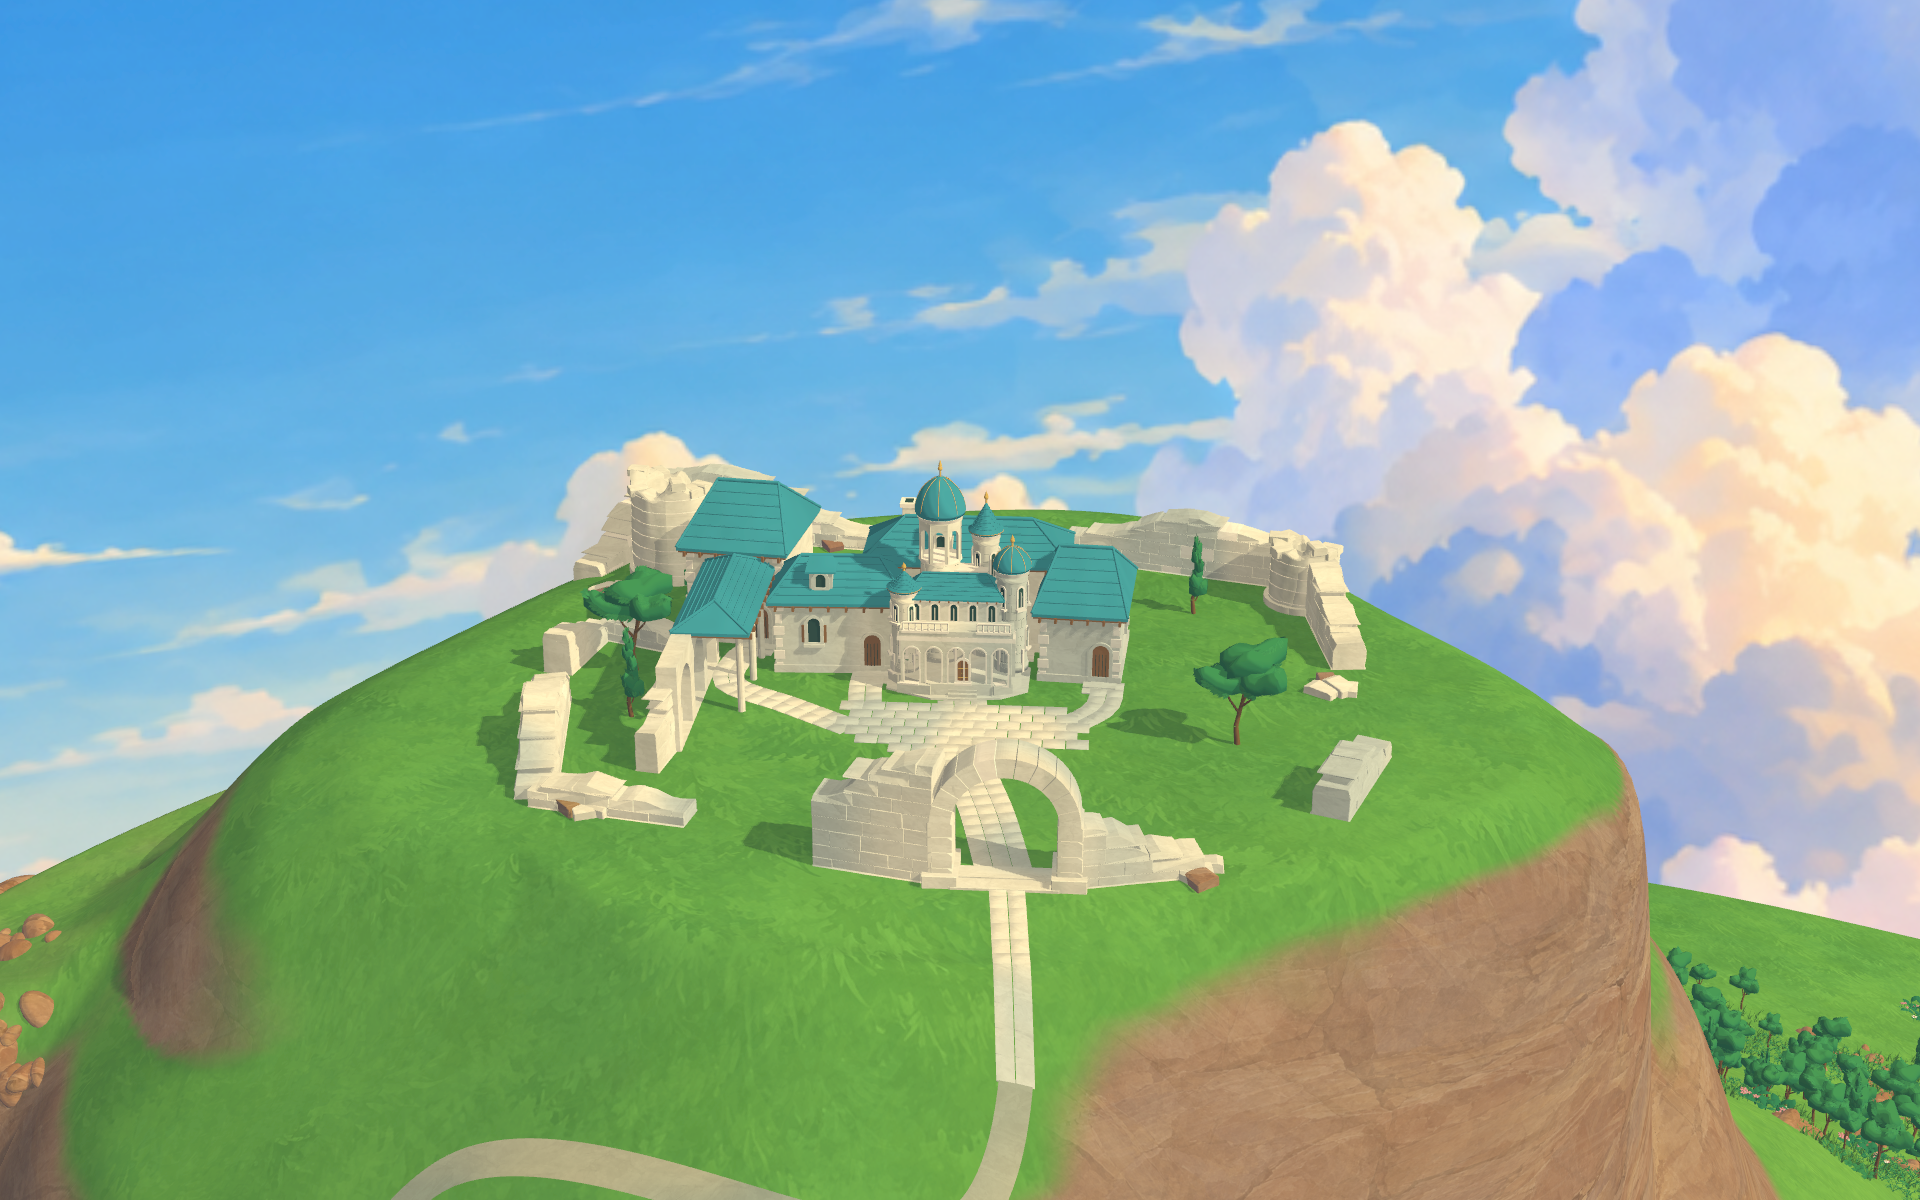
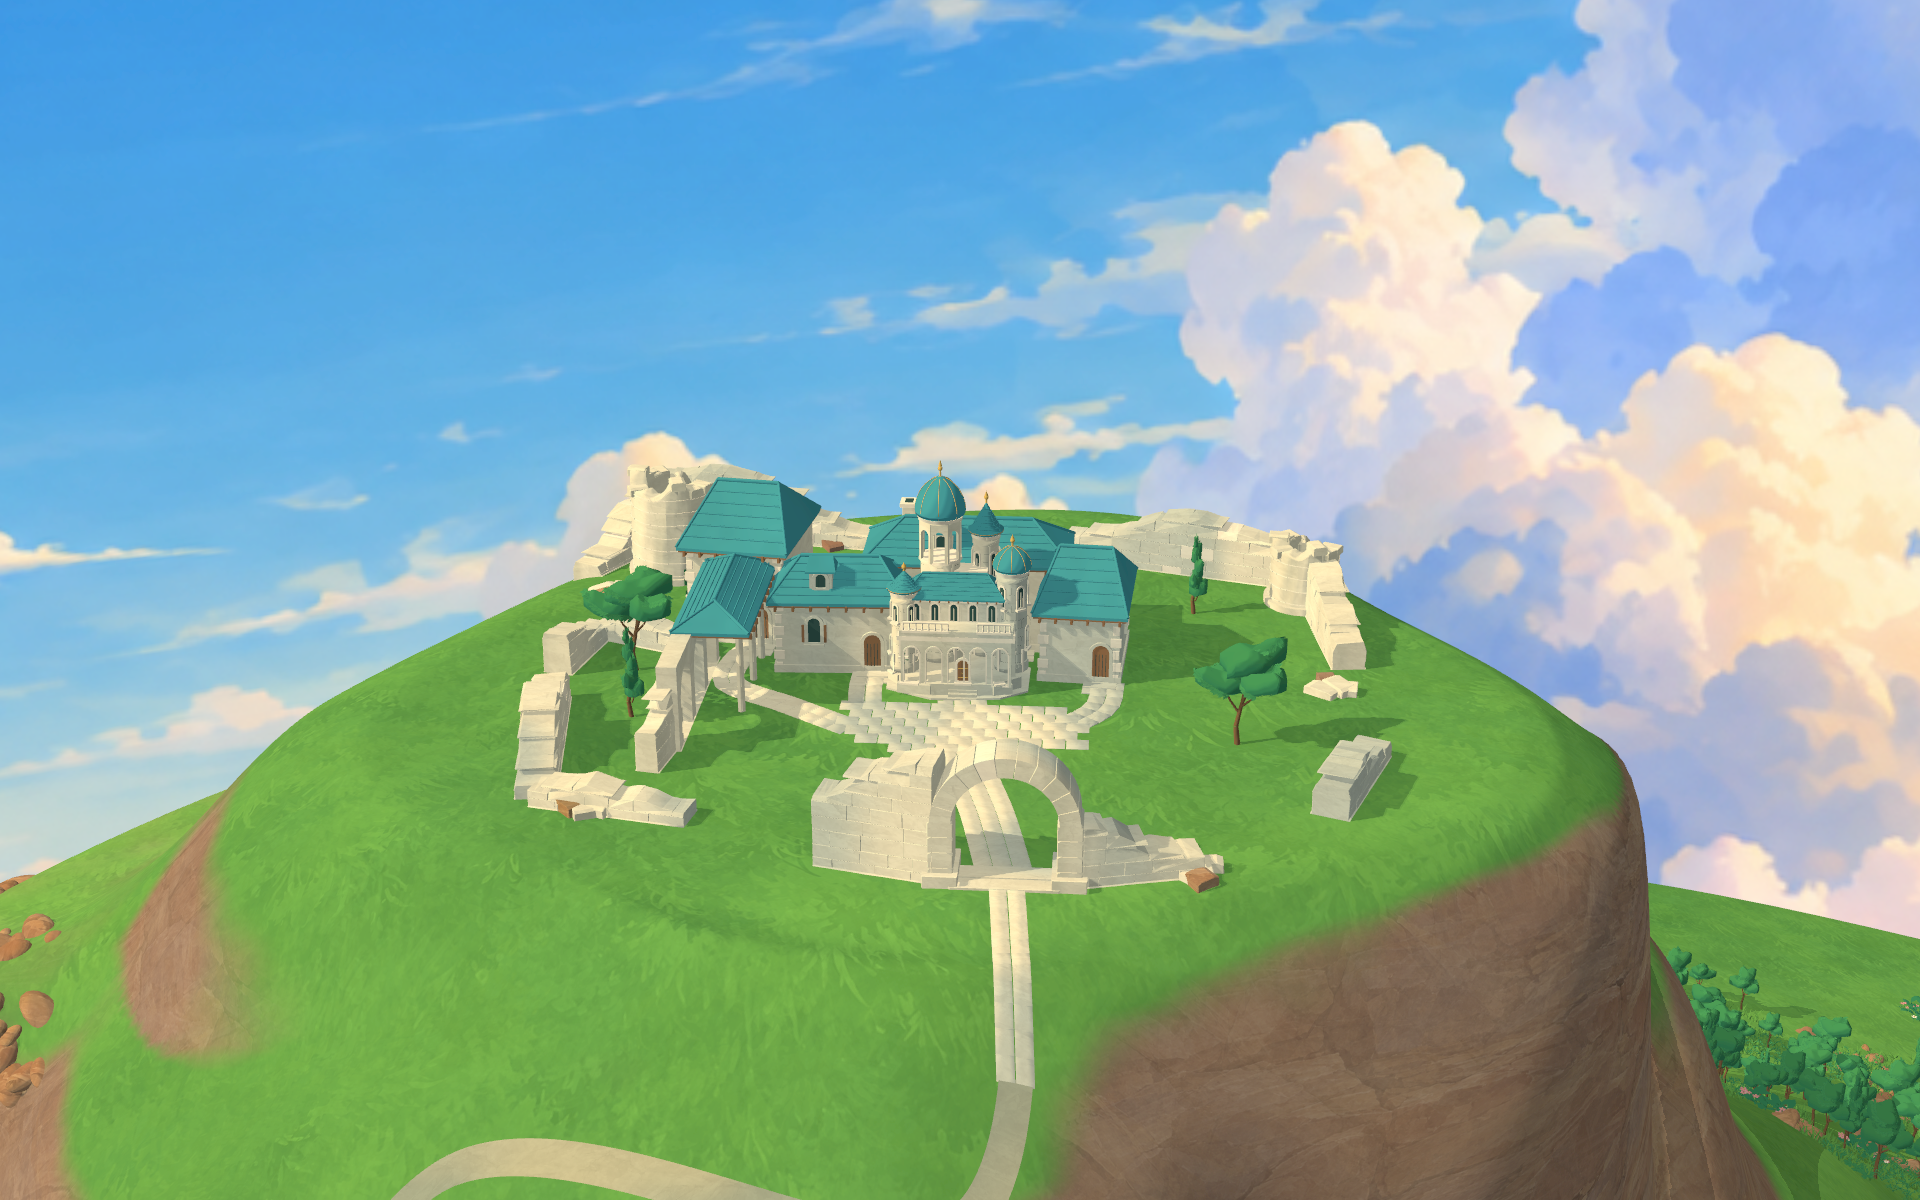
Sync cliff lighting, Cozy pigment and shader preparation from source dc88f4f

Changed region(s): [[0.2188, 0.37, 1.0, 1.0], [0.0, 0.555, 0.3125, 1.0]]

diff --git a/public/assets/sky-castle-scene.js b/public/assets/sky-castle-scene.js
@@ -17,7 +17,7 @@ const W = 960, H = 600, DURATION = 60;
 const LAND_SCALE=10, HEIGHT_SCALE=LAND_SCALE;
 const groveControllers=[];
 const travelerControllers=[];
-const sunOffset=new THREE.Vector3(28*LAND_SCALE,25*LAND_SCALE,8*LAND_SCALE);
+const sunOffset=new THREE.Vector3(-28*LAND_SCALE,25*LAND_SCALE,16*LAND_SCALE);
 const params = new URLSearchParams(location.search), capture = params.has('capture');
 const sceneContainer=document.getElementById('scene');
 let renderScale=capture?1:Math.min(window.devicePixelRatio||1,2)*Math.min(W,sceneContainer.clientWidth||W)/W;
@@ -46,7 +46,7 @@ const ambient = new THREE.HemisphereLight(0xfff3d7,0x739aaa,1.45);
 const sunlight = new THREE.DirectionalLight(0xfff0d3,2.8);
 sunlight.position.copy(sunOffset); sunlight.castShadow = true;
 sunlight.shadow.mapSize.set(4096,4096);
-Object.assign(sunlight.shadow.camera,{left:-16*LAND_SCALE,right:16*LAND_SCALE,top:17*LAND_SCALE,bottom:-14*LAND_SCALE,near:1,far:60*LAND_SCALE});
+Object.assign(sunlight.shadow.camera,{left:-16*LAND_SCALE,right:16*LAND_SCALE,top:17*LAND_SCALE,bottom:-14*LAND_SCALE,near:1,far:sunOffset.length()+30*LAND_SCALE});
 sunlight.shadow.bias = -.00004; sunlight.shadow.normalBias = .035;
 scene.add(ambient,sunlight,sunlight.target);
 const terrain = buildTerrain(THREE,m,{scale:LAND_SCALE,
@@ -224,6 +224,7 @@ const postScene=new THREE.Scene(),postCamera=new THREE.Camera();postScene.add(ne
 
 const descriptions={original:'Golden stone, olive gardens, matte pigment and warm sunlight.',fantasy:'Lush green terrain, soft toon shading, colored shadows and luminous water.',ink:'Cream and olive surfaces, crisp light bands and fine depth outlines.',cozy:'Gentle pastel colors, nearly flat illumination and soft contour lines.',ghibli:'Warm painted sunlight, natural greens, soft cool shadows and cream clouds.'};
 window.castleStyles=Object.keys(STYLES);window.castleState={style:DEFAULT_STYLE,mode:'3d',geometry:true,landScale:LAND_SCALE,landAreaScale:LAND_SCALE*LAND_SCALE,view:'overview'};
+let sceneReady=false;
 window.setStyle=(id,{persist=true}={})=>{
  if(!Object.hasOwn(STYLES,id))throw new Error('Unknown castle style: '+id);
  const preset=palette.setStyle(id);foregroundGrass.color.copy(m.grass.color).multiplyScalar(.78);scene.fog.color.setHex(preset.fog);ambient.intensity=preset.ambient;sunlight.intensity=preset.sunlight;
@@ -238,7 +239,7 @@ window.setStyle=(id,{persist=true}={})=>{
  document.getElementById('description').textContent=descriptions[id];document.getElementById('illustration-link').href='./animation.html?style='+id;
  if(persist&&!capture){const url=new URL(location.href);url.searchParams.set('style',id);history.replaceState(null,'',url);try{localStorage.setItem('castle-3d-style',id);}catch{}}
  window.castleState.style=id;renderer.shadowMap.needsUpdate=true;
- if(window.renderFrame)window.renderFrame(window.castleState.phase||0);
+ if(sceneReady)window.renderFrame(window.castleState.phase||0);
 };
 for(const [id,preset] of Object.entries(STYLES)){const button=document.createElement('button');button.type='button';button.dataset.style=id;button.textContent=preset.label;button.addEventListener('click',()=>window.setStyle(id));document.getElementById('style-picker').append(button);}
 let preferred=params.get('style');if(!preferred&&!capture){try{preferred=localStorage.getItem('castle-3d-style');}catch{}}
@@ -295,7 +296,28 @@ window.renderFrame=phase=>{
  renderer.setRenderTarget(null);renderer.render(postScene,postCamera);
  window.castleState.drawCalls=renderer.info.render.calls;window.castleState.triangles=renderer.info.render.triangles;
 };
-window.renderFrame(0);
+// Prepare existing offscreen material variants with the real color target and
+// populated lights before showing the scene. Fine tree geometry stays lazy.
+// Retain the instanced, double-sided shadow program used by distant leaves.
+// This single-triangle proxy is compiled only and never added to the scene.
+const shadowWarmupMaterial=new THREE.MeshDepthMaterial({depthPacking:THREE.RGBADepthPacking,side:THREE.DoubleSide});
+const shadowWarmupGeometry=new THREE.BufferGeometry();
+shadowWarmupGeometry.setAttribute('position',new THREE.Float32BufferAttribute([0,0,0,1,0,0,0,1,0],3));
+const shadowWarmupProxy=new THREE.InstancedMesh(shadowWarmupGeometry,shadowWarmupMaterial,1);
+const warmupTarget=renderer.getRenderTarget();
+renderer.setRenderTarget(target);
+try{
+ await renderer.compileAsync(scene,camera);
+ // Shadow depth has no fog; match its context without changing the shown scene.
+ const shadowWarmupFog=scene.fog;scene.fog=null;
+ let shadowWarmupPending;
+ try{shadowWarmupPending=renderer.compileAsync(shadowWarmupProxy,camera,scene);}finally{scene.fog=shadowWarmupFog;}
+ await shadowWarmupPending;
+}finally{
+ renderer.setRenderTarget(warmupTarget);
+ shadowWarmupGeometry.dispose();
+}
+window.renderFrame(0);sceneReady=true;
 document.getElementById('loading')?.remove();renderer.domElement.style.visibility='visible';
 const pause=document.getElementById('pause');function updatePause(){pause.textContent=paused?'Play motion':'Pause motion';pause.setAttribute('aria-pressed',String(paused));}updatePause();
 pause.addEventListener('click',()=>{paused=!paused;updatePause();});

diff --git a/public/assets/sky-castle-materials.js b/public/assets/sky-castle-materials.js
@@ -51,12 +51,12 @@ const PALETTES = {
     pigment:0.82, grain:0.045, outlineOpacity:0.06, outlineWidth:0.004,
   },
   cozy: {
-    grass:0x93b77a, rock:0x95a48b, stone:0xe8d9b3, stoneLight:0xfaeacb,
+    grass:0x93b77a, rock:0xaaa38e, stone:0xe8d9b3, stoneLight:0xfaeacb,
     roof:0x8fbfaf, gold:0xd7b876, dark:0x738875, wood:0xb4a185,
     leaf:0x7e9f76, trunk:0x8b8c72, flower:0xe6ad9e, cloud:0xfaf0d9,
-    water:0x89c4c4, foam:0xeaf5de, shadow:0x879e94,
+    water:0x89c4c4, foam:0xeaf5de, shadow:0x819d92,
     sky:0xb8d9dd, fog:0xd9e4d9, outline:0x60755f,
-    ambient:1.8, sunlight:1.6, contrast:0.42, bands:0, softness:0.3,
+    ambient:1.8, sunlight:1.6, contrast:0.52, bands:0, softness:0.3,
     pigment:0.3, grain:0.035, outlineOpacity:0.48, outlineWidth:0.013,
   },
 };
@@ -487,30 +487,33 @@ export function createMaterials(THREE) {
           } else {
             paintedLight = paintBand(paintedLight * cloudLight);
           }
-          float shade = mix(0.99, mix(0.34, 1.13, paintedLight), uPaintContrast);
-          vec3 warmPigment = diffuseColor.rgb * mix(vec3(1.0), vec3(1.05, 1.01, 0.92), paintedLight * uPaintContrast);
-          vec3 outgoingLight = warmPigment * shade;
+          // Preserve the painted albedo through illumination: shadow tint is
+          // relative chroma, never an opaque wash replacing mineral brushwork.
+          // Each palette still controls its own contrast and light banding.
+          float shade = mix(0.99, mix(0.27, 1.16, paintedLight), uPaintContrast);
           float shadowMix = (1.0 - paintedLight) * uPaintContrast;
-          float rockShadow = (uPaintSurface > 0.5 && uPaintSurface < 1.5) ? 0.58 : 0.24;
-          vec3 coolPigment = uPaintShadow * max(0.32, pigmentLuma * 0.88);
-          outgoingLight = mix(outgoingLight, coolPigment, shadowMix * rockShadow);
-          if (uPaintSurface > 0.5 && uPaintSurface < 1.5) {
-            // A low-intensity open-sky bounce reveals crag orientation even
-            // where the sun is behind the cliff. It is world-fixed, not a
-            // camera-facing rim light, so it stays attached during the orbit.
+          float shadowLuma = max(dot(uPaintShadow, vec3(0.2126, 0.7152, 0.0722)), 0.025);
+          vec3 coolRatio = clamp(uPaintShadow / shadowLuma, vec3(0.62), vec3(1.55));
+          float rockSurface = (uPaintSurface > 0.5 && uPaintSurface < 1.5) ? 1.0 : 0.0;
+          vec3 illuminationTint = mix(vec3(1.0), vec3(1.10, 1.015, 0.88), paintedLight * uPaintContrast);
+          illuminationTint *= mix(vec3(1.0), coolRatio, shadowMix * mix(0.28, 0.44, rockSurface));
+          vec3 outgoingLight = diffuseColor.rgb * shade * illuminationTint;
+          if (rockSurface > 0.5) {
+            // Open-sky fill belongs to upward/open fracture planes. Recesses
+            // keep a quiet value floor rather than receiving a gray blanket.
             vec3 worldNormal = inverseTransformDirection(normal, viewMatrix);
             float skyFacing = dot(worldNormal, normalize(vec3(-0.55, 0.70, -0.45)));
-            float skyFill = smoothstep(-0.65, 1.0, skyFacing);
+            float skyFill = smoothstep(-0.40, 0.88, skyFacing);
             if (uPaintBands > 1.0 && uPaintSoftness < 0.04) skyFill = paintBand(skyFill);
-            vec3 bouncePigment = mix(diffuseColor.rgb, uPaintShadow * max(0.28, pigmentLuma), 0.22);
-            outgoingLight += bouncePigment * (0.025 + skyFill * 0.25)
+            vec3 bouncePigment = diffuseColor.rgb * mix(vec3(1.0), coolRatio, 0.30);
+            outgoingLight += bouncePigment * (0.015 + skyFill * 0.14)
               * (1.0 - paintedLight) * uPaintContrast;
           }
           outgoingLight += totalEmissiveRadiance;
           if (uPaintSurface > 2.5 && uPaintSurface < 3.5) outgoingLight = mix(diffuseColor.rgb, outgoingLight, 0.40);
         `);
     };
-    material.customProgramCacheKey = () => `sky-castle-painted-v15-${surface}`;
+    material.customProgramCacheKey = () => `sky-castle-painted-v16-${surface}`;
     materials[key] = material;
   }
 
